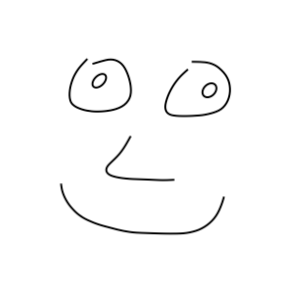
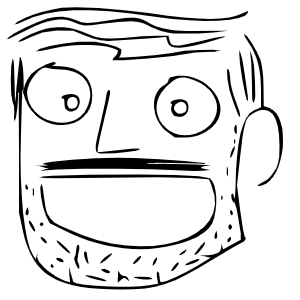
Update About page

diff --git a/_includes/index-jupyter.html b/_includes/index-jupyter.html
@@ -55,7 +55,7 @@
 <div class="prompt input_prompt">In&nbsp;[5]:</div>
 <div class="inner_cell">
     <div class="input_area">
-<div class=" highlight hl-ipython3"><pre><span></span><span class="ow">and</span> <span class="n">yes</span><span class="p">,</span> <span class="n">I</span> <span class="n">made</span> <span class="n">part</span> <span class="n">of</span> <span class="n">this</span> <span class="n">website</span> <span class="k">with</span> <span class="n">jupyter</span>
+<div class=" highlight hl-ipython3"><pre><span></span><span class="ow">and</span> <span class="n">yes</span><span class="p">,</span> <span class="n">I</span> <span class="n">made</span> <span class="n">this</span> <span class="n">part</span> <span class="n">of</span> <span class="n">the</span> <span class="n">website</span> <span class="k">with</span> <span class="n">jupyter</span>
 </pre></div>
 
     </div>